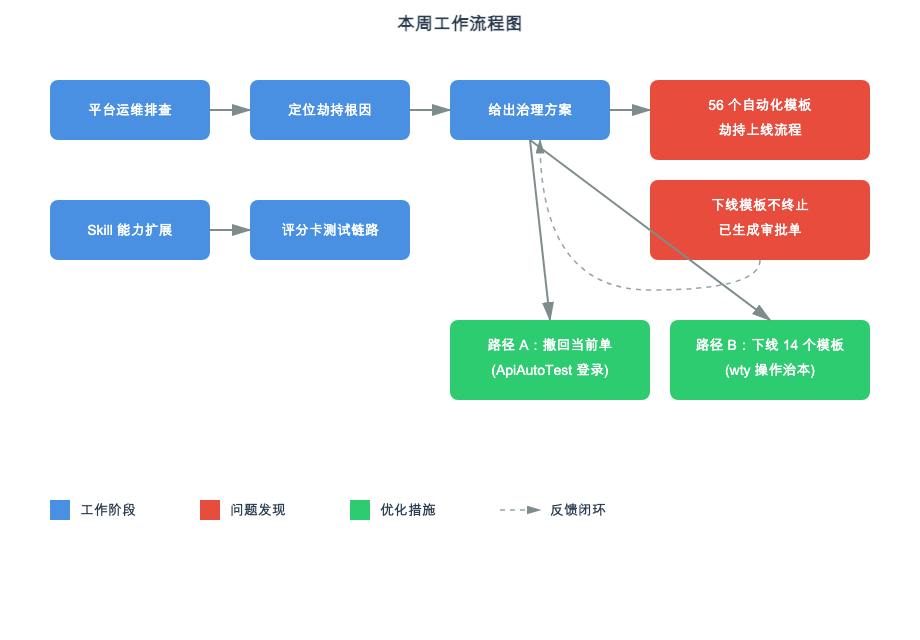
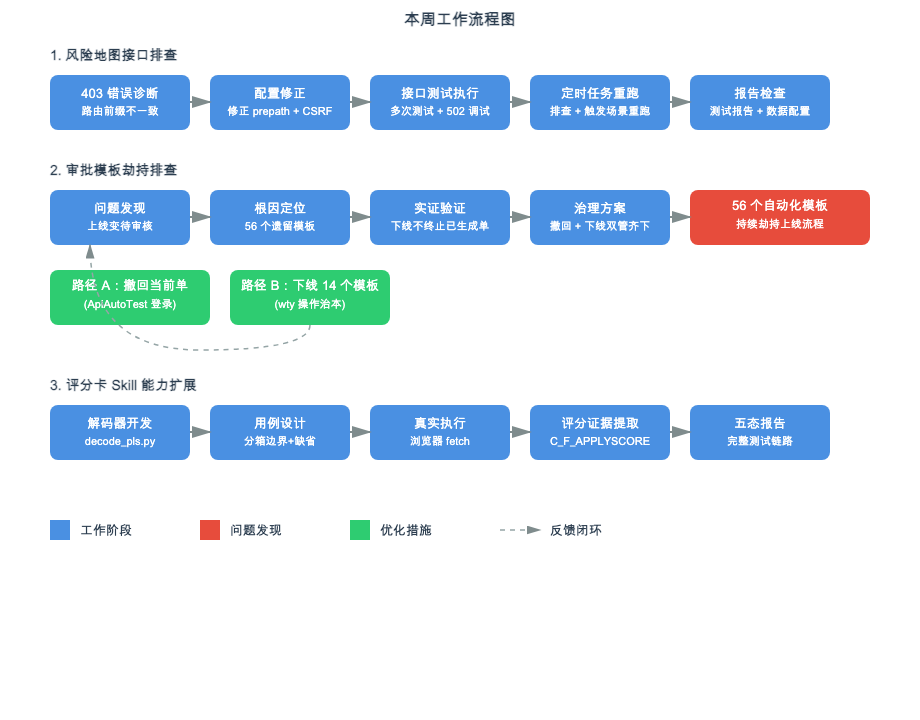
[2026-09-17] 日常 - 更新周报 09.11-09.17（补充风险地图接口排查）

diff --git a/日常/2026-09-11-09-17/周报.md b/日常/2026-09-11-09-17/周报.md
@@ -1,10 +1,12 @@
 # 26年：09.11-09.17
 
-本周工作围绕天策平台运维排查与策略测试 Skill 能力扩展展开：定位了自动化审批模板劫持规则集上线的根因并给出两条治理路径；策略测试 Skill 新增评分卡/.pls 类策略测试链路，完成解码器与参考文档配套。
+本周工作围绕天策平台运维排查与策略测试 Skill 能力扩展展开：完成风险地图基础配置接口的全链路排查与测试（403/502 错误诊断、路由前缀修正、CSRF 头补齐、定时任务重跑）；定位了自动化审批模板劫持规则集上线的根因并给出两条治理路径；策略测试 Skill 新增评分卡/.pls 类策略测试链路，完成解码器与参考文档配套。
 
 ![本周工作流程图](workflow.png)
 
 ## 一、本周进展
+
+🔧 **风险地图基础配置接口全链路排查与测试**：诊断 `/riskMap/baseInfo` 接口 403 错误，定位根因为路由前缀不一致（声明 `/noahApi` 实际走 `/tradeApi`，env 配置覆盖导致）+ CSRF 头缺失 + Cookie/token 绑定问题 → 修正 prepath 配置、补齐 `_csrf_` 头 → 多次执行接口测试并调试 502 错误 → 排查定时任务执行出错原因并触发场景重跑 → 检查测试报告并完成场景数据配置。
 
 🔥 **天策平台自动化审批模板劫持问题排查**：定位到 ApiAutoTest 遗留的 56 个自动化审批模板（其中 10 个规则集 + 4 个策略模板仍"已上线"）持续劫持规则集/策略上线流程，将上线变为"待审核"垃圾单；实证下线/删除模板不会终止已生成的审批单，给出路径 A（用 ApiAutoTest 撤回当前卡住的单）+ 路径 B（用 wty 下线 14 个模板治本）的组合治理方案。
 
@@ -12,7 +14,7 @@
 
 ## 二、当前判断
 
-平台审批模板劫持问题的根因已定位清楚，治理方案（撤回 + 下线）可行但需 ApiAutoTest 登录配合；策略测试 Skill 已具备评分卡测试能力，待平台上后可跑实测。
+风险地图基础配置接口问题已定位并修复，定时任务重跑验证通过；平台审批模板劫持问题的根因已定位清楚，治理方案（撤回 + 下线）可行但需 ApiAutoTest 登录配合；策略测试 Skill 已具备评分卡测试能力，待平台上后可跑实测。
 
 ## 三、当前关注点
 
